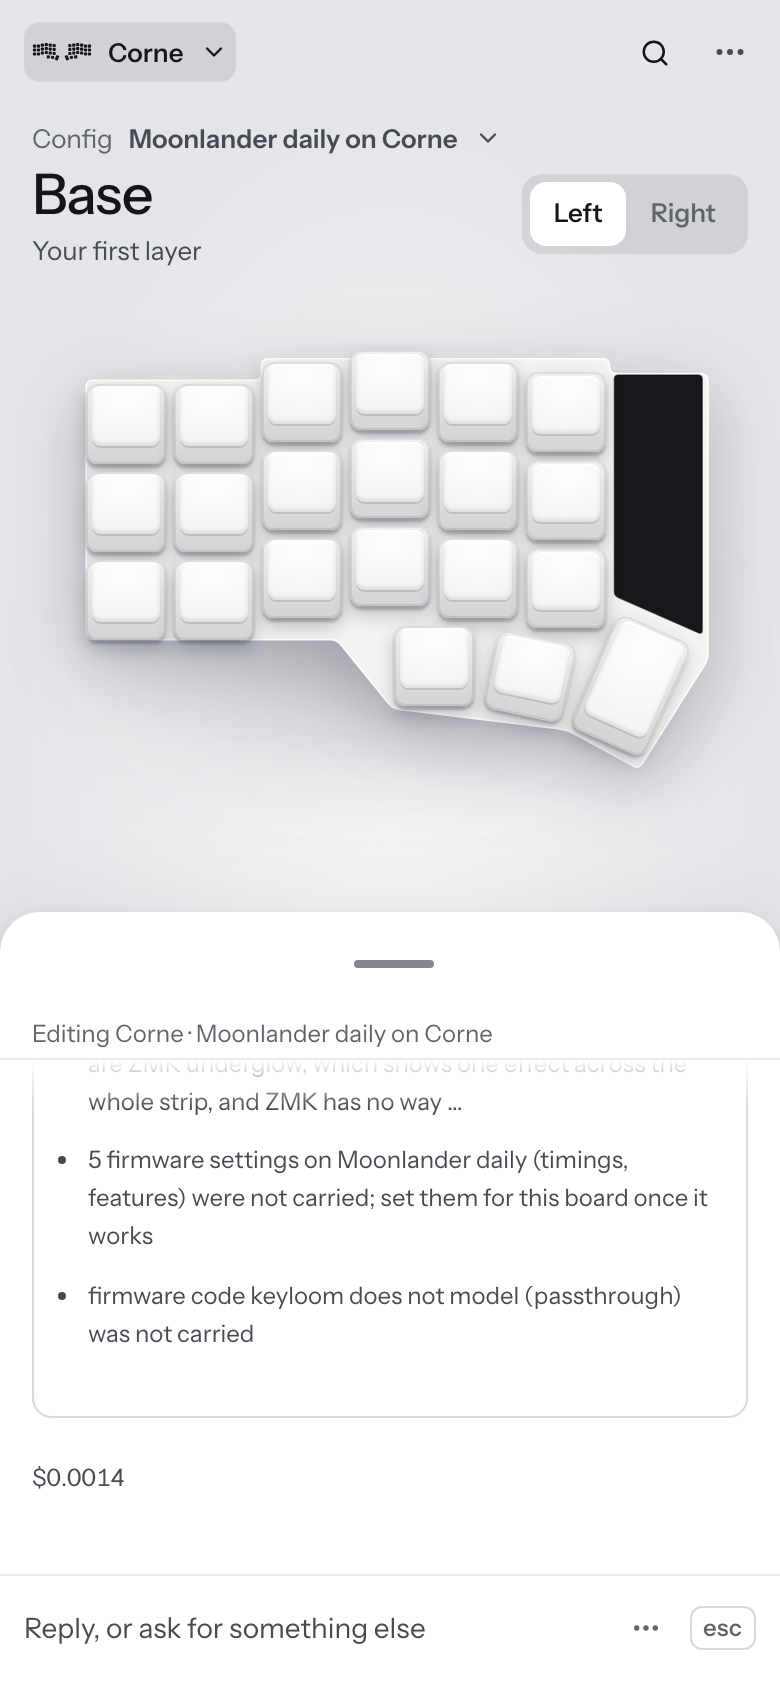
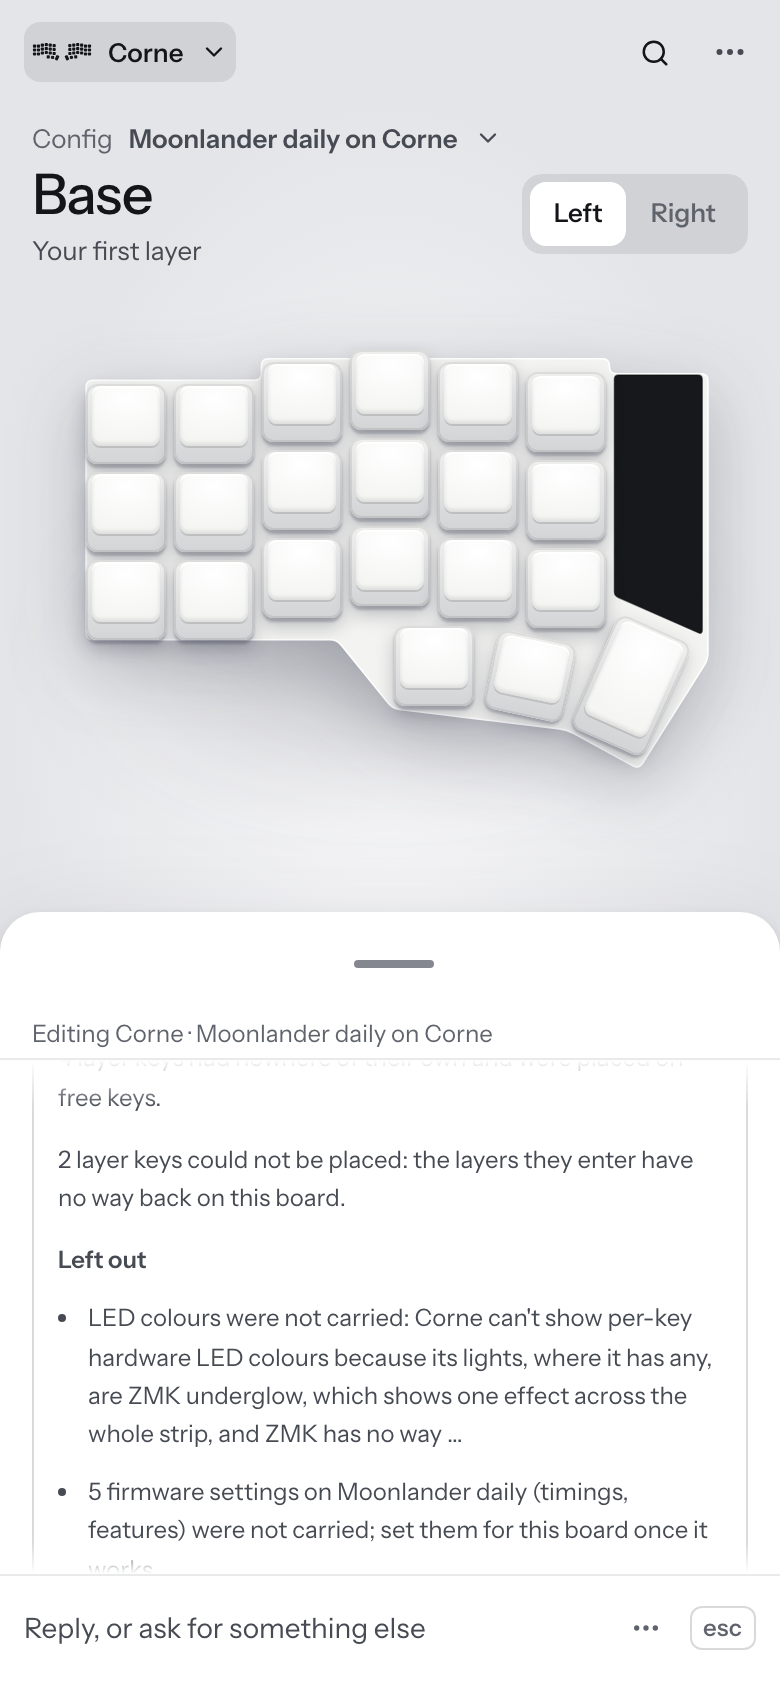
docs: put the copy card's drops above the layer detail
The decision log's new entry, the agent keyboard context and the stage B
evidence now describe the two disclosures, the order and the empty states,
and the captures, measured heights and card text are refreshed from the
rebuilt card.

Changed region(s): [[0.0308, 0.6469, 0.8923, 0.9242]]

diff --git a/docs/research/ui-audit/b-copy-transfer/README.md b/docs/research/ui-audit/b-copy-transfer/README.md
@@ -1,10 +1,10 @@
 # The copy's reply says what came across
 
-Checked source: `3ce11db7ec03d94feabd117df7de8c36da1159b3`, tree `7de9e5e3ae6a9d615576aebc2000ef8758c6fa6b`, on 2026-10-30. This commit is code, tests and the capture script; the documentation and these captures are the commit that follows it, so the code under test is byte-identical to that tree. The app ran from `scripts/dev-copy-layout.ts`: the real server routes, SQLite in a scratch data directory, and a scripted Anthropic client. No model was called, no network was used, and the build, flash and "use this config" routes refuse. The source layout is the checked-in Oryx Moonlander fixture (`test/fixtures/oryx/synchronized`); the target is the checked-in Corne board definition.
+Checked source: `554a306db2744ee22077c0bec068dbe69a5dd3d8`, tree `56c66bc3caa6e12225cb9bdaa34639588c960bda`, on 2026-10-30. This commit is code, tests and the capture script; the documentation and these captures are the commit that follows it, so the code under test is byte-identical to that tree. The app ran from `scripts/dev-copy-layout.ts`: the real server routes, SQLite in a scratch data directory, and a scripted Anthropic client. No model was called, no network was used, and the build, flash and "use this config" routes refuse. The source layout is the checked-in Oryx Moonlander fixture (`test/fixtures/oryx/synchronized`); the target is the checked-in Corne board definition.
 
-The copy was asked in the chat ("Copy my Moonlander setup onto my Corne"). The app carried the reader into the new config's own conversation, where the copy's first reply carries the report card: `Moonlander → Corne`, 156 keys came across on 6 layers, 15 of them nearest-place guesses, one line per layer, 112 keys that did not come across with the plan's own reason for each, 8 combos, 4 layer keys placed on free keys and 2 that could not be placed, and the notes for what was never about keys (LED colours, firmware settings, passthrough code). The card ends with those notes: it does not add a line pointing at this conversation, because the reader is already in it.
+The copy was asked in the chat ("Copy my Moonlander setup onto my Corne"). The app carried the reader into the new config's own conversation, where the copy's first reply carries the report card: `Moonlander → Corne`, 156 keys came across on 6 layers, 15 of them nearest-place guesses, then two closed disclosures — **Carried by layer** and **112 keys did not come across** — then 8 combos, 4 layer keys placed on free keys and 2 that could not be placed, and the notes for what was never about keys (LED colours, firmware settings, passthrough code). The card ends with those notes: it does not add a line pointing at this conversation, because the reader is already in it.
 
-The card reuses the question card's quiet surface (`.ask-card`); it adds no new visual system. The drops sit behind a `<details>` so the card stays short, and the detail list is bounded (40 rows here, with the rest counted).
+The card reuses the question card's quiet surface (`.ask-card`); it adds no new visual system. Its lead is what carried and what did not, because that decides whether the copy is usable; the per-layer split is detail and sits behind its own disclosure, so the drops are not pushed below the fold on the phone. **Carried by layer** holds the line-per-layer bullets (carried, guessed, left off, and "and N more layers"); the drops disclosure holds one row per key that did not come across, with the plan's own reason, bounded to 40 rows with the rest counted as "and N more". Neither disclosure appears when it has nothing to say: a one-layer copy has no layer disclosure, and a copy that lost no keys has no drops disclosure.
 
 ## Both themes fit desktop and phone viewports
 
@@ -17,11 +17,11 @@ The card reuses the question card's quiet surface (`.ask-card`); it adds no new 
 
 Captures use device pixel ratio 2: desktop PNGs are 2880 × 1800 and phone PNGs are 780 × 1688. They are page captures from headless Chrome, with no browser chrome and no resizing.
 
-On the phone the chat is the bottom sheet, which gives the thread 257 CSS pixels; the card is 695 pixels tall at that width, so three shots scroll through it rather than pretending it fits. The page does not scroll sideways (`scrollWidth == clientWidth`), and the card holds the 358-pixel column with keys and reasons wrapping. The desktop capture keeps the board beside the thread and the card reads in one screen (599 pixels tall). `capture-notes.txt` records each capture's measured facts and `card-text.txt` the dark desktop card's text.
+On the phone the chat is the bottom sheet, which gives the thread 257 CSS pixels; the card is 529 pixels tall at that width, so three shots scroll through it rather than pretending it fits. The top shot shows the boards, the carried sentence and both disclosures, with the drops summary above the fold. The page does not scroll sideways (`scrollWidth == clientWidth`), and the card holds the 358-pixel column with keys and reasons wrapping. The desktop capture keeps the board beside the thread and the whole card reads in one screen (433 pixels tall). `capture-notes.txt` records each capture's measured facts and `card-text.txt` the dark desktop card's text.
 
-## The drops open from the keyboard
+## Both disclosures open from the keyboard
 
-The disclosure is a native `<details>`/`<summary>`, with a visible focus ring. Focusing the summary and pressing Enter opened it and kept the focus there; `card-open-dark-1440x900.png` is that state. Chrome's DevTools protocol only activates it when the Enter keystroke carries its character, which is a property of the harness, not of the page.
+Each is a native `<details>`/`<summary>`, with the same visible focus ring. Focusing **Carried by layer** and pressing Enter opened it and kept the focus there, and a second Enter closed it again; focusing **112 keys did not come across** and pressing Enter opened the reasons, and `card-open-dark-1440x900.png` is that state. Chrome's DevTools protocol only activates a summary when the Enter keystroke carries its character, which is a property of the harness, not of the page.
 
 ## Repeating it
 
@@ -29,6 +29,6 @@ The disclosure is a native `<details>`/`<summary>`, with a visible focus ring. F
 bun scripts/copy-report-shots.ts [outDir]
 ```
 
-The script starts its own demo server on port 4495 with a fresh scratch data directory per capture, and its own Chrome profile on an ephemeral debugging port. It fails if a step before the card reports a failure, if the card renders banned wording ("unsupported", "successfully", "!"), if the page overflows, or if Enter does not open the disclosure.
+The script starts its own demo server on port 4495 with a fresh scratch data directory per capture, and its own Chrome profile on an ephemeral debugging port. It frames the card in the thread (whole when it fits, from its top in the phone sheet), and fails if a step before the card reports a failure, if the card renders banned wording ("unsupported", "successfully", "!"), if the page overflows, or if either disclosure does not open and close from the keyboard.
 
 This is candidate evidence on a synthetic setup. It does not verify a published binary, a real keyboard, or how the copy feels to type on.

diff --git a/docs/blueprint/14-decision-log.md b/docs/blueprint/14-decision-log.md
@@ -2173,6 +2173,7 @@ The name shows while a half runs, in System Information and in `keyloom keyboard
 A whole-config copy already computed every fact a person needs before acting: what carried, which keys were nearest-place guesses, every key that did not come across with the plan's own reason, a count per layer, the combos that did or did not copy, the layer keys placed on free keys, and the things that were never about keys (LED colours, firmware settings, passthrough code). None of it reached the reply. The reply said a total and a number of drops; the per-key detail existed only inside the child run's prompt, and nothing produced the `transfer` artifact the web already knew how to draw.
 
 - **One artifact, built by the server from the plan.** `transferReport` (`src/app/copy-report.ts`) turns a `PutPlan` and the two board names into the `transfer` artifact `src/api/artifacts.ts` already declared. Fields are added, none renamed or removed: `guessedCount`, `layers`, `combos`, `notes`, `placementCount`, `placementsBlocked`, and the counts beside the bounded lists (`skippedCount`, `layerCount`, `combos.skippedCount`, `noteCount`). An older reader parses a newer report and loses only the new lines; a newer reader shows an older report's four fields.
+- **What leads.** The carried sentence is the lead; the per-layer breakdown follows it behind **Carried by layer**, and the drops sit above that detail because what is missing decides whether the copy is usable. Both disclosures are native `<details>`/`<summary>` elements with a visible focus ring, and neither appears when it has nothing to say (one layer, or no drops).
 - **Bounded, visibly.** At most 40 dropped keys, 12 layers, 12 skipped combos and 8 notes; each string is capped (80 for a board, layer or key, 120 for a reason, 200 for a note). A trimmed value ends in an ellipsis, and anything a list leaves out is counted, so the card says "and N more" rather than losing it. The producer and the wire schema repeat the same bounds; a contract test holds them together.
 - **It rides on the presentation, not a new table.** `PresentationSchema` and `ChatPresentationSchema` gain optional `artifacts` (at most 4, at most 32 KB), stored in the existing `chat_presentations` row. No migration: an older binary drops the field when it reads the row, and a new binary reading an older row sees no artifacts. The setter clips what a future writer might send unbounded and flags the cut, so no card writer can push a reply past the stored row's budget.
 - **Both replies, one plan.** The `put_config` path already computed the plan in `prepareCopyContext`; `prepareCopy` builds the report from that same plan and puts it in the stored `CopyContext.report` (JSON beside the prompt, never inside it). The reply that made the copy shows it as soon as the copy returns, and the copy's own first reply seeds the same artifact from the stored context, so the app — which carries the reader to the new config — shows the card where he lands. No second `planPut`: a test spies on it and sees one call for the whole journey.

diff --git a/docs/blueprint/30-agent-keyboard-context.md b/docs/blueprint/30-agent-keyboard-context.md
@@ -106,7 +106,7 @@ Default harmless preparation immediately and disclose the choice, following D-38
 
 ### The reply says what came across, in one card
 
-A copy's reply carries a `transfer` card (D-467). The card names both boards, says how many keys came across and how many of those were nearest-place guesses, gives a line per layer, and puts every dropped key with the plan's own reason behind a disclosure that a keyboard opens. It then says how many combos copied or did not, naming each skipped one with the plan's reason, how many layer keys had nowhere of their own and were placed on free keys, which could not be placed, and, under **Left out**, the things that were never about keys: LED colours, firmware settings, passthrough code. It does not close by pointing at the new config's conversation: the card is in that conversation (and in the parent, after the app has already carried the reader there).
+A copy's reply carries a `transfer` card (D-467). The card names both boards, says how many keys came across and how many of those were nearest-place guesses, and puts two disclosures under that sentence, both of which a keyboard opens: **Carried by layer**, the line-per-layer breakdown, and the drops — every key that did not come across, with the plan's own reason. The drops come first, because whether the copy is usable turns on what is missing, not on how it is spread over the layers. It then says how many combos copied or did not, naming each skipped one with the plan's reason, how many layer keys had nowhere of their own and were placed on free keys, which could not be placed, and, under **Left out**, the things that were never about keys: LED colours, firmware settings, passthrough code. It does not close by pointing at the new config's conversation: the card is in that conversation (and in the parent, after the app has already carried the reader there).
 
 The card is built by the server from the plan the copy already computed — `transferReport` over the `PutPlan` — so it cannot disagree with the proposal it describes and the plan is never run twice. It is stored beside the reply's presentation rather than in a new table, which means an older binary reading a new row loses the card and nothing else. The reply that asked for the copy and the copy's own first reply both carry the same facts, because the app takes the reader to the new config and that is the reply he sees; a later reply in that conversation is about adapting the config and shows no second card. Everything is bounded (40 drops, 12 layers, 12 skipped combos, 8 notes, capped text) and anything a bound leaves out is counted, so the card says "and N more" instead of dropping it quietly. The report describes the plan; no op, proposal, decision or apply step reads it.
 
